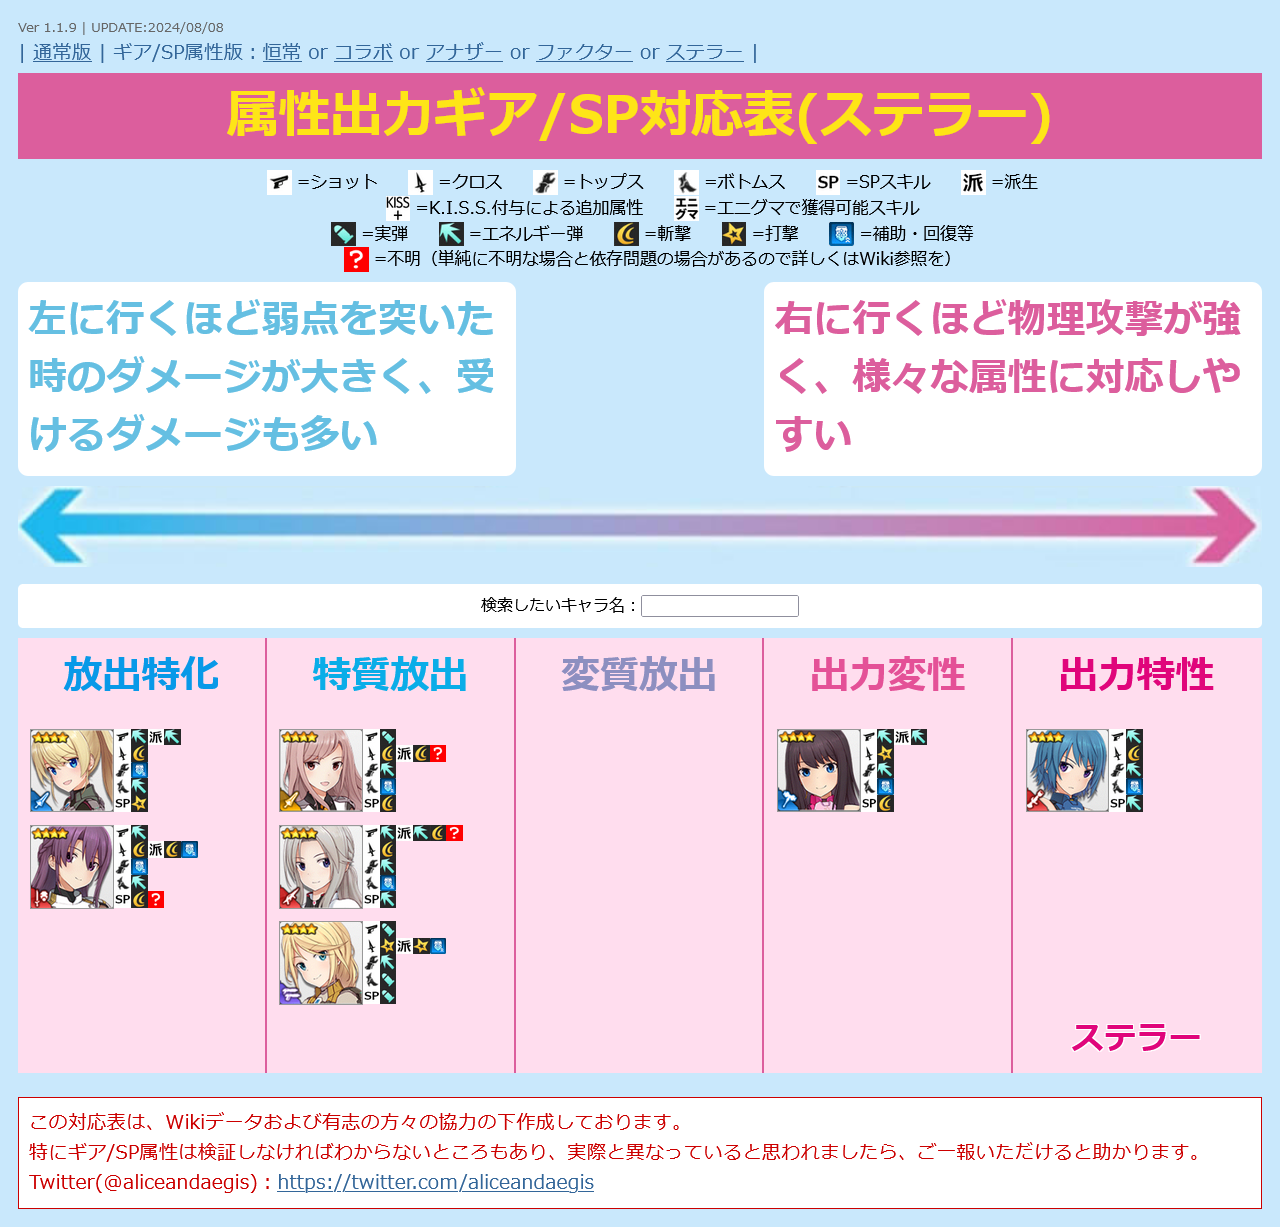
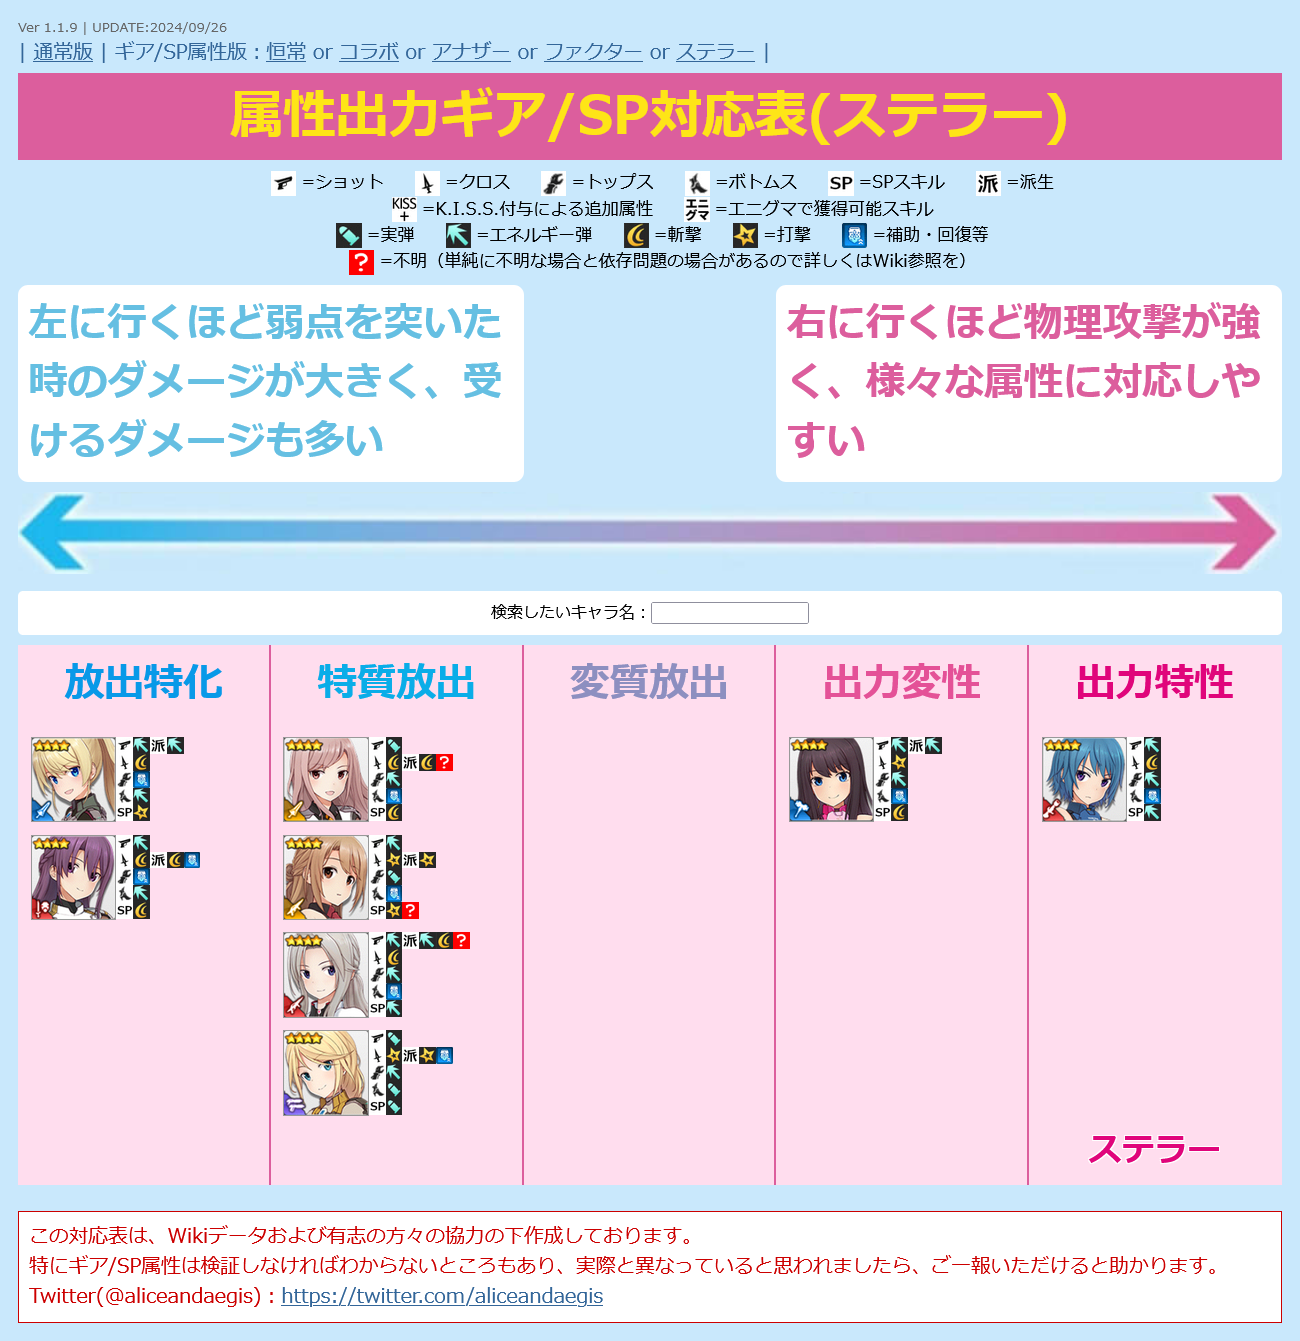
UPDATE charadata
・ステラー 大関 小結 / エンプレスを追加

diff --git a/alice.html b/alice.html
@@ -12,7 +12,7 @@
   <script>
 
 /* 更新情報 必要に応じて書き換えてください */
-  var version = "Ver 1.1.9 | UPDATE:2024/09/12";
+  var version = "Ver 1.1.9 | UPDATE:2024/09/26";
 
 
 /*
@@ -554,6 +554,20 @@
       "attr": "4",
       "link": "https://wikiwiki.jp/alicegear/%E5%A4%A7%E9%96%A2%E5%B0%8F%E7%B5%90%E8%B1%8A%E6%BD%A4",
       "category": "10"
+    },
+    {
+      "id": "12",
+      "type": "2",
+      "src": "stellar-koyui.png",
+      "name": "大関 小結 / エンプレス",
+      "equip1": "2",
+      "equip2": "4/4",
+      "equip3": "1",
+      "equip4": "5",
+      "sp": "4?",
+      "attr": "1",
+      "link": "https://wikiwiki.jp/alicegear/%E5%A4%A7%E9%96%A2%E5%B0%8F%E7%B5%90/%E3%82%A8%E3%83%B3%E3%83%97%E3%83%AC%E3%82%B9",
+      "category": "12"
     },
     {
       "id": "13",
@@ -2817,10 +2831,10 @@
       "type": "3",
       "src": "another-makise.png",
       "name": "牧瀬 紅莉栖 / 因果",
-      "equip1": "2/2",
-      "equip2": "4/3",
-      "equip3": "25/2",
-      "equip4": "25/25",
+      "equip1": "2",
+      "equip2": "3",
+      "equip3": "2",
+      "equip4": "25",
       "sp": "35?",
       "attr": "3",
       "link": "https://wikiwiki.jp/alicegear/%E7%89%A7%E7%80%AC%E7%B4%85%E8%8E%89%E6%A0%96%E5%9B%A0%E6%9E%9C",
@@ -2845,10 +2859,10 @@
       "type": "4",
       "src": "another-suzuha.png",
       "name": "阿万音 鈴羽 / 戦士",
-      "equip1": "1/2?",
-      "equip2": "3/3",
-      "equip3": "25/2?",
-      "equip4": "15/5",
+      "equip1": "1",
+      "equip2": "3",
+      "equip3": "1",
+      "equip4": "25",
       "sp": "35?",
       "attr": "4",
       "link": "https://wikiwiki.jp/alicegear/%E9%98%BF%E4%B8%87%E9%9F%B3%E9%88%B4%E7%BE%BD%E6%88%A6%E5%A3%AB",
